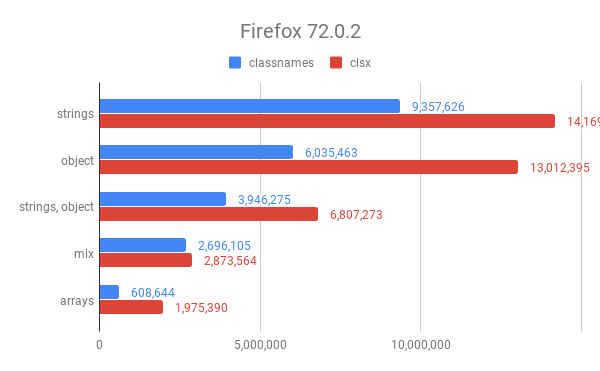
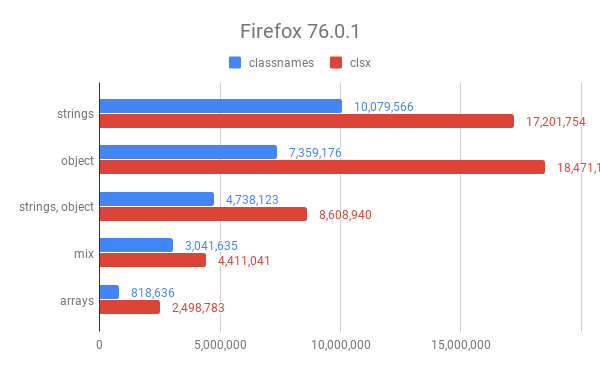
chore: update benchmark results

diff --git a/bench/readme.md b/bench/readme.md
@@ -10,39 +10,39 @@ These are the results while running this directory's benchmark suite in Node v10
 
 ```
 # Strings
-  classcat ≠   x  8,701,496 ops/sec ±0.34% (95 runs sampled)
-  classnames   x  3,938,281 ops/sec ±1.60% (92 runs sampled)
-  clsx         x 11,253,372 ops/sec ±0.35% (96 runs sampled)
+  classcat ≠    x  8,719,816 ops/sec ±0.69% (91 runs sampled)
+  classnames    x  3,992,284 ops/sec ±1.64% (94 runs sampled)
+  clsx          x 12,784,134 ops/sec ±0.42% (97 runs sampled)
 
 # Objects
-  classcat ≠   x 8,594,500 ops/sec ±0.26% (98 runs sampled)
-  classnames   x 3,741,576 ops/sec ±0.21% (94 runs sampled)
-  clsx         x 7,288,178 ops/sec ±0.31% (96 runs sampled)
+  classcat ≠    x 8,680,509 ops/sec ±0.36% (97 runs sampled)
+  classnames    x 3,772,978 ops/sec ±0.46% (96 runs sampled)
+  clsx          x 9,412,010 ops/sec ±0.42% (95 runs sampled)
 
 # Arrays
-  classcat ≠   x 7,461,741 ops/sec ±1.04% (88 runs sampled)
-  classnames   x 1,649,404 ops/sec ±1.79% (93 runs sampled)
-  clsx         x 8,340,174 ops/sec ±0.53% (96 runs sampled)
+  classcat ≠    x 7,589,602 ops/sec ±0.62% (95 runs sampled)
+  classnames    x 1,665,275 ops/sec ±1.83% (93 runs sampled)
+  clsx          x 9,141,916 ops/sec ±0.42% (95 runs sampled)
 
 # Nested Arrays
-  classcat ≠   x 6,347,127 ops/sec ±0.30% (93 runs sampled)
-  classnames   x 1,154,165 ops/sec ±1.63% (93 runs sampled)
-  clsx         x 6,284,485 ops/sec ±0.58% (90 runs sampled)
+  classcat ≠    x 6,411,409 ops/sec ±0.84% (93 runs sampled)
+  classnames    x 1,164,706 ops/sec ±1.60% (95 runs sampled)
+  clsx          x 7,165,151 ops/sec ±0.47% (91 runs sampled)
 
 # Nested Arrays w/ Objects
-  classcat ≠   x 6,422,622 ops/sec ±0.36% (95 runs sampled)
-  classnames   x 1,614,032 ops/sec ±0.44% (96 runs sampled)
-  clsx         x 6,345,248 ops/sec ±0.21% (95 runs sampled)
+  classcat ≠    x 6,447,346 ops/sec ±0.68% (92 runs sampled)
+  classnames    x 1,597,180 ops/sec ±1.49% (93 runs sampled)
+  clsx          x 7,651,411 ops/sec ±0.56% (95 runs sampled)
 
 # Mixed
-  classcat ≠   x 7,071,223 ops/sec ±0.36% (95 runs sampled)
-  classnames   x 2,093,250 ops/sec ±1.38% (93 runs sampled)
-  clsx         x 6,557,515 ops/sec ±0.73% (91 runs sampled)
+  classcat ≠    x 6,595,879 ops/sec ±0.42% (96 runs sampled)
+  classnames    x 2,129,199 ops/sec ±1.46% (94 runs sampled)
+  clsx          x 8,119,210 ops/sec ±0.42% (93 runs sampled)
 
 # Mixed (Bad Data)
-  classcat ≠   x 1,761,143 ops/sec ±0.21% (96 runs sampled)
-  classnames   x 1,132,549 ops/sec ±0.91% (95 runs sampled)
-  clsx         x 2,018,654 ops/sec ±0.15% (98 runs sampled)
+  classcat ≠    x 1,771,920 ops/sec ±0.41% (96 runs sampled)
+  classnames    x 1,166,577 ops/sec ±0.84% (94 runs sampled)
+  clsx          x 2,238,939 ops/sec ±0.34% (95 runs sampled)
 ```
 
 ## Browsers

diff --git a/readme.md b/readme.md
@@ -79,7 +79,7 @@ All browsers that support [`Array.isArray`](https://developer.mozilla.org/en-US/
 
 ## Related
 
-- [obj-str](https://github.com/lukeed/obj-str) - Similar utility that is faster and smaller (96B) but only works with Objects.
+- [obj-str](https://github.com/lukeed/obj-str) - A smaller (96B) and similiar utility that only works with Objects.
 
 ## License
 
